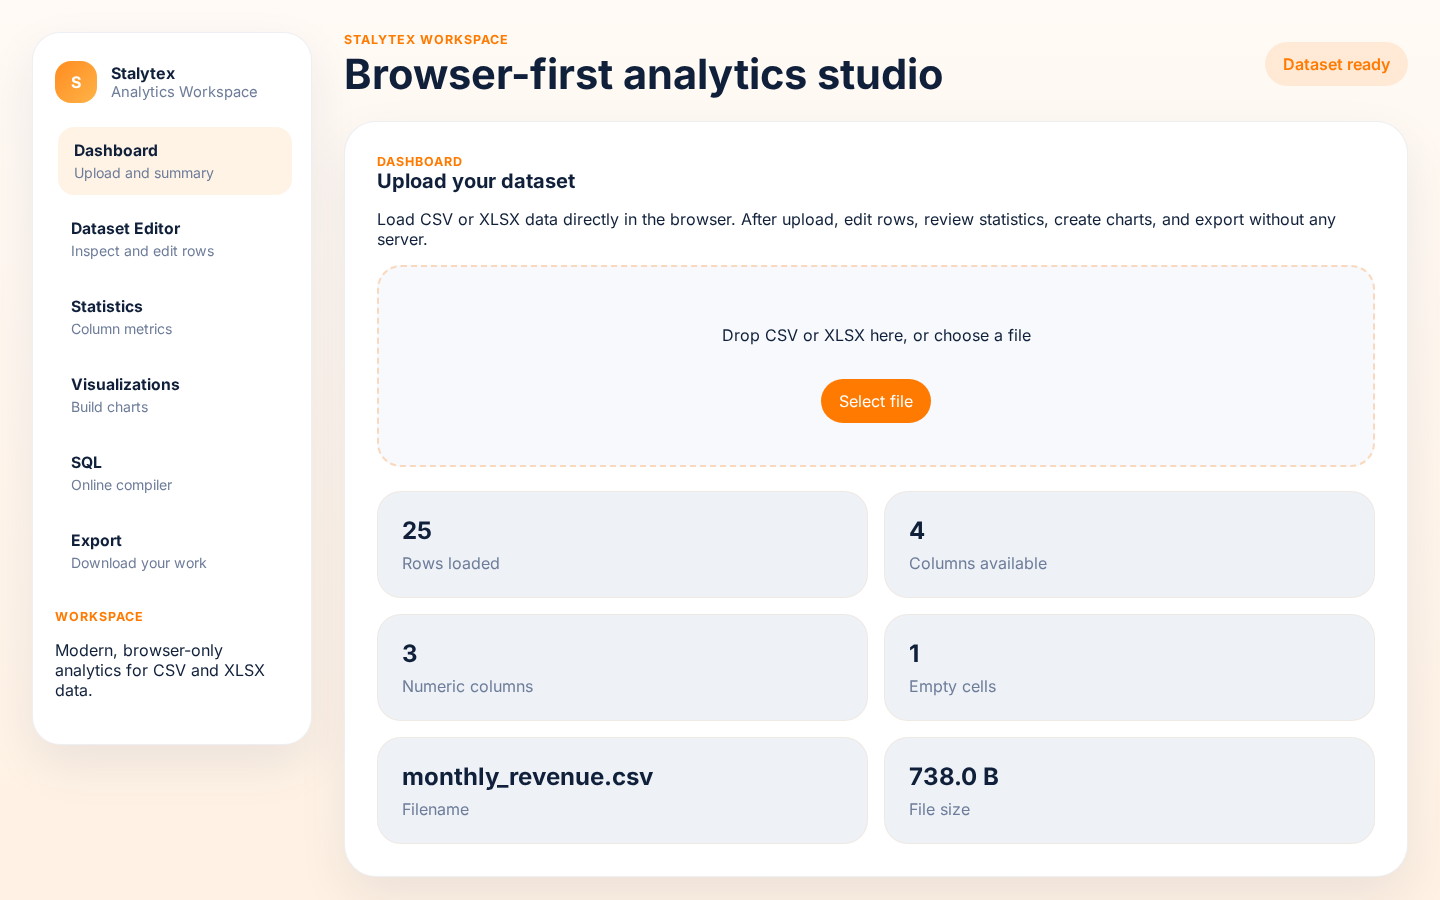
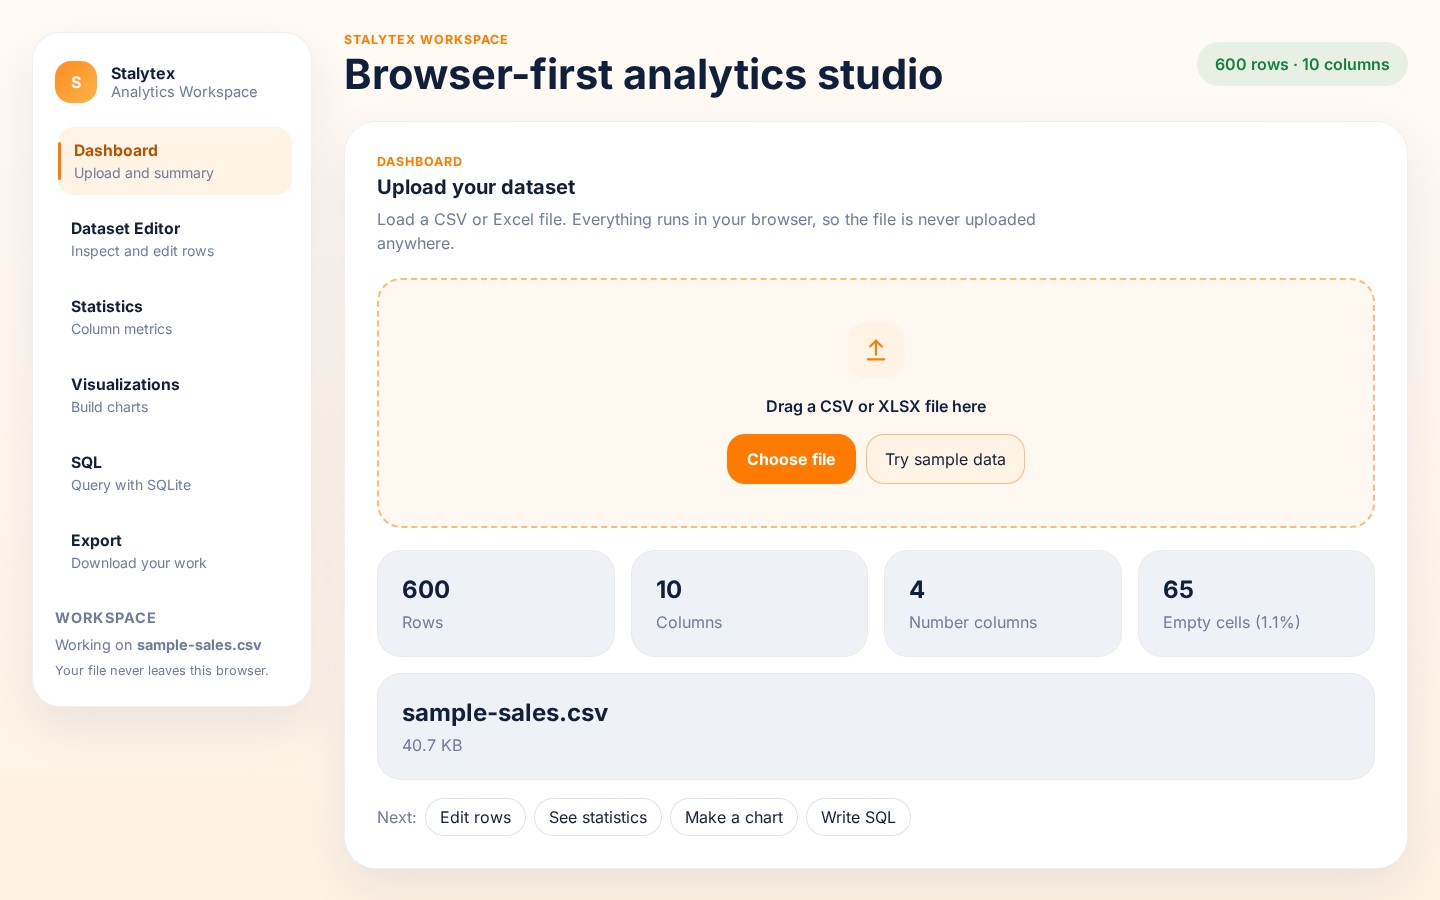
rewrite readme for the new features, refresh screenshots

diff --git a/README.md b/README.md
@@ -1,8 +1,10 @@
 # Stalytex
 
 A browser-based analytics workspace for CSV and Excel files. Upload a dataset, clean and edit it, look at
-column statistics, build charts and run SQL queries on it. Everything runs in the browser, so the data never
-leaves your computer and there is no backend to set up.
+column statistics, build charts and run SQL on it. Everything runs in the browser, so the data never leaves
+your computer and there is no backend to set up.
+
+**Live:** https://stalytex.netlify.app
 
 ![Stalytex dashboard](screenshots/dashboard.png)
 
@@ -13,20 +15,48 @@ to upload a file and quickly answer basic questions about it.
 
 ## Features
 
-- **Upload:** CSV (parsed with PapaParse) or XLSX (SheetJS), with a summary of rows, columns, numeric columns,
-  empty cells and file size.
-- **Dataset editor:** search, sort, filter by column, paginate, edit cells, add or delete rows and columns.
-- **Statistics:** per-column min, max, average, unique values and empty cells.
-- **Visualizations:** bar, line, area, pie, scatter and histogram charts (Recharts). Pick the X and Y columns and the colour.
-- **SQL:** the uploaded table is loaded into an in-browser SQLite database (sql.js), so you can run normal SQL
-  queries like `SELECT country, SUM(revenue) FROM data GROUP BY country`.
-- **Export:** download the edited data as CSV or XLSX, and charts as PNG (html2canvas).
+- **Upload:** CSV or XLSX by drag and drop or the file picker. Shows rows, columns, number columns, empty cells
+  and file size. There's a "Try sample data" button if you just want to look around (the sample is a made-up
+  sales file, 600 rows).
+  - single-column and uneven (ragged) CSVs load fine, with a warning for the uneven rows
+  - Excel dates show as dates instead of serial numbers like `45717`
+  - duplicate headers are renamed (`Qty`, `Qty (2)`) instead of one silently overwriting the other
+  - a file that fails to load doesn't wipe the dataset you already had open
+- **Dataset editor:** search, filter by column, sort (numbers sort as numbers, blanks go last), pagination,
+  edit any cell (Enter saves, Esc cancels), add/delete rows and columns. Deletes can be undone from the toast.
+- **Statistics:** count, missing, unique, mean, median, standard deviation, min, max, 25th/75th percentile,
+  sum and range for number columns, most frequent values for text columns, plus a table that summarises
+  every column at once. I checked the numbers against pandas `describe()` and they match.
+- **Visualizations:** bar, line, area, pie, scatter and histogram (Recharts). Pick X, Y, how to combine values
+  (sum, average or count) and the colour. The chart updates as you change the options. Large files are
+  capped so the chart stays readable (top 30 bars, pie shows top 7 + "Other", scatter samples 2,000 points).
+- **SQL:** the dataset is loaded into SQLite in the browser (sql.js). The table is called `dataset`
+  (`data` also works). Number columns are stored as real numbers and empty cells as `NULL`, so things like
+  `WHERE price > 1000`, `AVG()` and `ORDER BY` behave the way you'd expect.
+
+  ```sql
+  SELECT city, COUNT(*) AS orders, ROUND(SUM(revenue), 2) AS revenue
+  FROM dataset
+  GROUP BY city
+  ORDER BY revenue DESC;
+  ```
+- **Export:** the edited data as CSV (with a BOM so Excel shows accents and ₹ properly) or XLSX (numbers and
+  dates saved as real numbers/dates, not text), and the current chart as a PNG.
+- **Works on phones:** the sidebar turns into a slide-in menu, tables scroll inside their box and charts resize.
+
+| Charts | SQL |
+| --- | --- |
+| ![Charts](screenshots/charts.png) | ![SQL](screenshots/sql.png) |
+
+<img src="screenshots/mobile.png" alt="Stalytex on a phone" width="260" />
 
 ## Tech stack
 
-React 18, TypeScript, Vite, Recharts, PapaParse, SheetJS (xlsx), sql.js, html2canvas
+React 18, TypeScript, Vite, Recharts, PapaParse, SheetJS (xlsx), sql.js, html2canvas, Vitest
 
 ## Run locally
+
+You need Node 18 or newer (I use 20).
 
 ```bash
 git clone https://github.com/Tejdeep-67/Stalytex.git
@@ -37,14 +67,39 @@ npm run dev
 
 Then open the URL shown in the terminal (usually http://localhost:5173).
 
-To make a production build: `npm run build` (output in `frontend/dist`). The repo has a `netlify.toml`
-for deploying on Netlify.
+Other scripts:
 
-## Project structure
+```bash
+npm test          # unit tests (vitest)
+npm run build     # type check + production build into frontend/dist
+npm run preview   # serve the production build
+```
+
+## Deploying
+
+The repo has a `netlify.toml` at the root: base directory `frontend`, build command `npm run build`,
+publish directory `dist`, Node 20. All routes fall back to `index.html`.
+
+## How it's built
+
+- `App.tsx` holds the dataset (`headers` + `rows`) and passes it down to each page. Rows are kept as strings
+  exactly as they were in the file, and each page decides how to read them.
+- The actual logic lives in small files in `src/lib/` so it can be tested without a browser:
+  - `parse.ts` / `excel.ts` turn CSV text or an Excel sheet into headers + rows
+  - `numbers.ts` decides what counts as a number (`1,250` does, an empty cell doesn't)
+  - `table.ts` does search, filter and sort on row indexes, so editing a sorted table edits the right row
+  - `stats.ts` does the statistics (percentiles use the same method as numpy/pandas)
+  - `chartData.ts` groups and aggregates data for each chart type
+  - `sql.ts` creates the SQLite table with a type for each column
+  - `exportData.ts` / `exportXlsx.ts` build the CSV and Excel files
+- The charts, SQLite and the Excel library are the heavy parts, so they are only downloaded when you first use
+  them. The first page load is about 190 KB of JS instead of 1.1 MB.
+- I tested with a 200,000 row CSV: it loads in under half a second and sorting, statistics and the first SQL
+  query each take well under a second.
 
 ```
 frontend/src/
-├── App.tsx                 # file upload, state, page switching
+├── App.tsx
 ├── components/
 │   ├── Dashboard.tsx       # upload + dataset summary
 │   ├── DatasetEditor.tsx   # table editing, sort, filter
@@ -52,14 +107,18 @@ frontend/src/
 │   ├── Visualizations.tsx  # charts
 │   ├── SQLCompiler.tsx     # sql.js queries
 │   ├── ExportPanel.tsx     # CSV / XLSX / PNG export
-│   └── Sidebar.tsx
+│   ├── Sidebar.tsx         # nav (drawer on phones)
+│   └── Toasts.tsx
+├── lib/                    # parsing, stats, charts, sql, export (+ *.test.ts)
 └── types.ts
 ```
 
 ## Limitations
 
-- Everything is in memory, so very large files (hundreds of MB) will be slow.
+- Everything is in memory, so very large files (hundreds of MB) will be slow or run out of memory.
+- Only the first non-empty sheet of an Excel file is loaded.
 - Changes are not saved between sessions; export the file to keep them.
+- SQL queries run on a copy, so `UPDATE`/`DELETE` in SQL don't change the table in the editor.
 
 ## License
 
